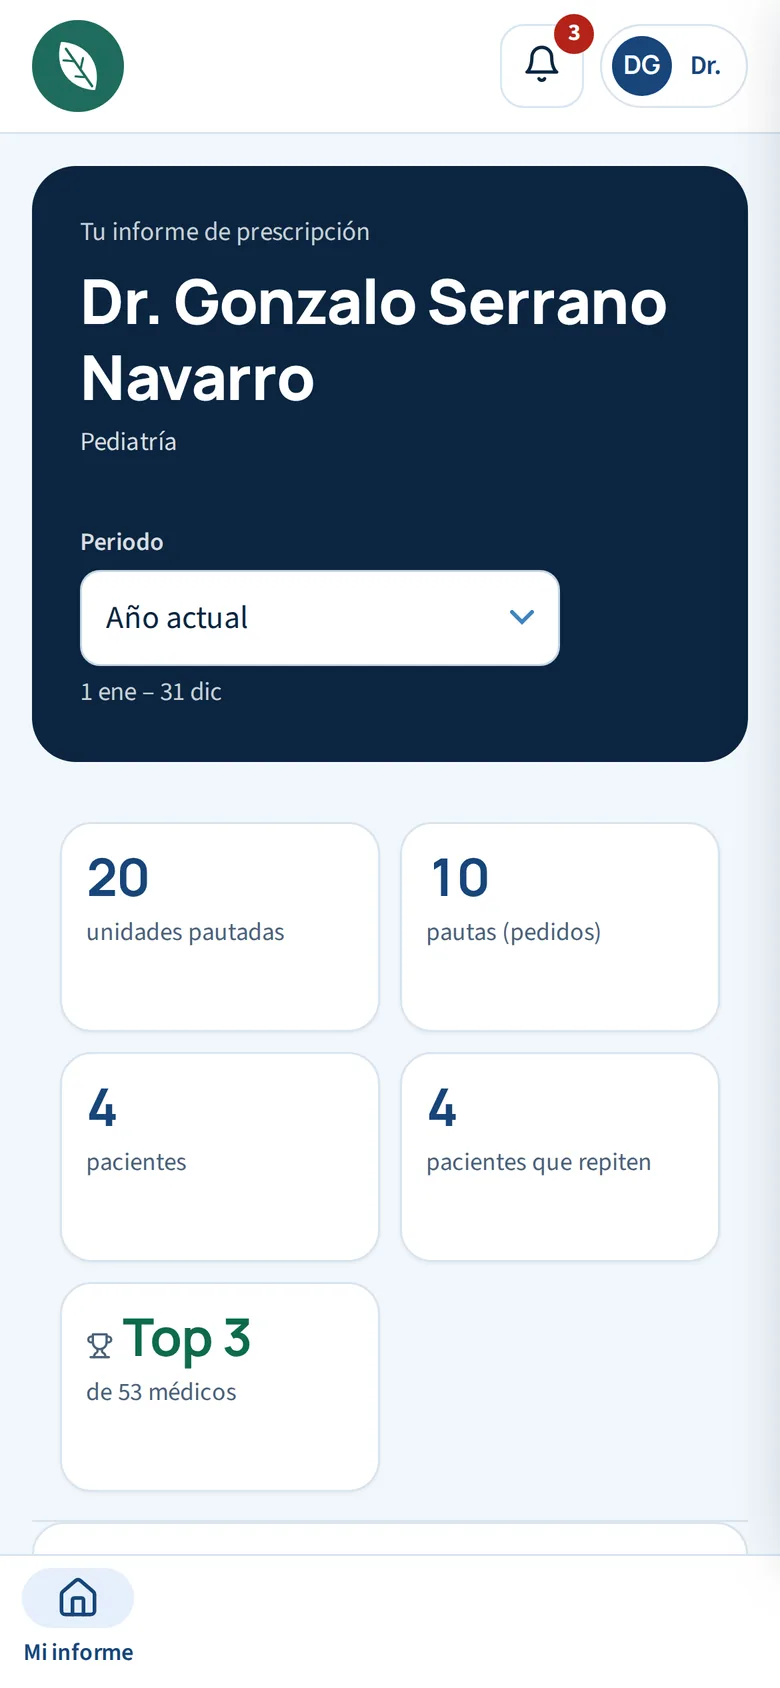
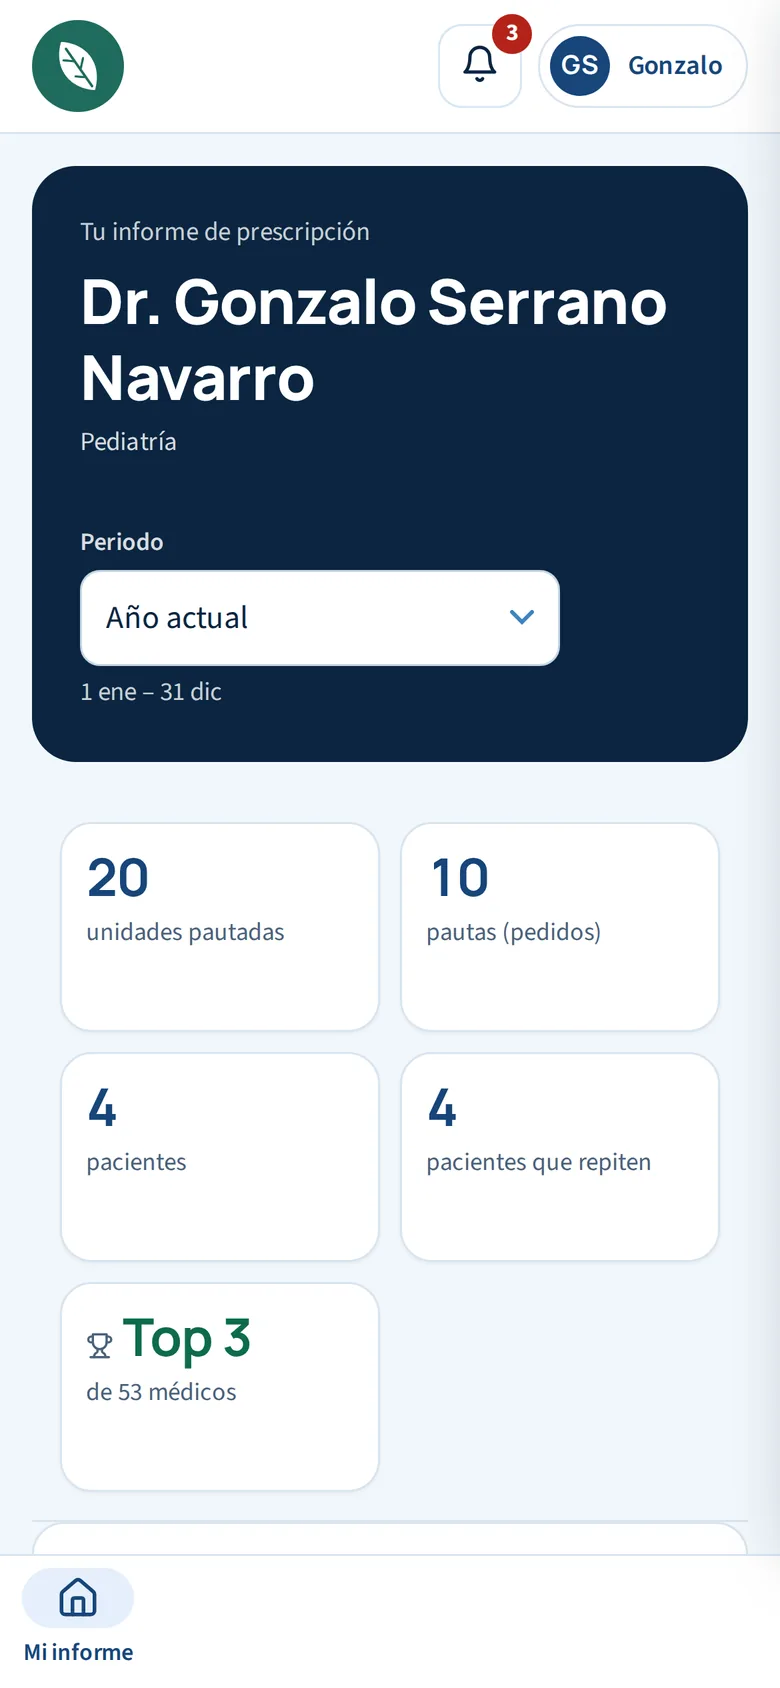
Pedidos por la web y capturas con la app v2.116
Dos piezas nuevas en Módulos con capturas reales de Company Pharma: pedidos por la web (filtro de origen y su resumen) y el pago de un pedido con su referencia y justificante; también en el menú Plataforma, en español e inglés. Las capturas del portal del profesional se rehacen con la app v2.116.0 (nombre sin tratamiento y botonera de borde a borde).

Changed region(s): [[0.5846, 0.0, 0.9231, 0.0616]]

diff --git a/en/index.html b/en/index.html
@@ -997,6 +997,8 @@ const MODULOS = [
   { g: 'g8', ojo: 'Orders', t: 'From visit to order', d: 'Patient recommendation or sale to a centre, with discounts, shipping and the operations of every order.', img: 'labs_e_ventas' },
   { g: 'g6', ojo: 'Warehouse', t: 'Stock by batch and expiry', d: 'Goods in, goods out, samples and transfers by warehouse.', img: 'labs_e_stock' },
   { g: 'g6', ojo: 'Purchasing', t: 'Suppliers and purchase orders', d: 'What has been sent, what is in transit and what has arrived.', img: 'labs_e_compras' },
+  { g: 'g6', ojo: 'Web orders', t: 'What comes in through your website, in sight', d: 'Orders placed through your website, with their own filter and sales summary.', img: 'pharma_e_pedidos_web' },
+  { g: 'g6', ojo: 'Payments', t: 'Every payment, with its reference', d: 'The bank transfer or Bizum reference and the proof of payment, right on the order.', img: 'pharma_e_pedido_web' },
   { g: '', ojo: 'Invoicing', t: 'VeriFactu, built in', d: 'Series, credit notes, payments and the record of every invoice.', img: 'labs_e_facturas' },
   { g: '', ojo: 'Commissions', t: 'Every sale, credited to whoever made it', d: 'Tiered schemes and monthly settlements.', img: 'labs_e_comisiones' },
   { g: '', ojo: 'Analytics', t: 'Explore your data', d: 'Cross sales, visits and coverage by any dimension.', img: 'labs_e_explorar' },
@@ -1219,11 +1221,12 @@ addEventListener('scroll', alDesplazar, { passive: true }); alDesplazar();
 /* ================= menú desplegable de la cabecera ================= */
 const MENU_PLAT = [
   ['Field', [['Accounts', 'Professionals, centres and their history', 'labs_e_directorio', 0], ['Calendar and routes', 'Each rep’s week', 'labs_e_agenda', 2],
-    ['Follow-up', 'What needs doing on each record', 'labs_e_seguimiento', 1], ['Data quality', 'No duplicate or incomplete records', 'labs_e_calidad', 9]]],
+    ['Follow-up', 'What needs doing on each record', 'labs_e_seguimiento', 1], ['Data quality', 'No duplicate or incomplete records', 'labs_e_calidad', 11]]],
   ['Sales', [['Orders', 'From visit to order', 'labs_e_ventas', 3], ['Telesales', 'Calls that end in orders', 'labs_e_llamadas', 3],
-    ['Commissions', 'Every sale, credited to whoever made it', 'labs_e_comisiones', 7], ['Analytics', 'Cross sales, visits and coverage', 'labs_e_explorar', 8]]],
+    ['Commissions', 'Every sale, credited to whoever made it', 'labs_e_comisiones', 9], ['Analytics', 'Cross sales, visits and coverage', 'labs_e_explorar', 10],
+    ['Web orders', 'With their filter, summary and payment reference', 'pharma_e_pedidos_web', 6]]],
   ['Office', [['Warehouse and batches', 'Stock by batch and expiry', 'labs_e_stock', 4], ['Purchasing', 'Suppliers and purchase orders', 'labs_e_compras', 5],
-    ['Invoicing', 'VeriFactu, credit notes and payments', 'labs_e_facturas', 6], ['Team and permissions', 'Each role sees and does its own part', 'labs_e_usuarios', 10]]]
+    ['Invoicing', 'VeriFactu, credit notes and payments', 'labs_e_facturas', 8], ['Team and permissions', 'Each role sees and does its own part', 'labs_e_usuarios', 12]]]
 ];
 const previa = (img, pie) => `<div class="previa"><div class="ordenador"><div class="barra"><i></i><i></i><i></i></div><div class="vista"><img src="${cap(img)}" alt="" width="1600" height="1000"><img class="fuera" alt="" width="1600" height="1000"></div></div><p>${pie}</p></div>`;
 let ni = 0;

diff --git a/index.html b/index.html
@@ -997,6 +997,8 @@ const MODULOS = [
   { g: 'g8', ojo: 'Pedidos', t: 'De la visita al pedido', d: 'Recomendación al paciente o venta a centro, con descuentos, envío y la operativa de cada pedido.', img: 'labs_e_ventas' },
   { g: 'g6', ojo: 'Almacén', t: 'Stock por lotes y caducidad', d: 'Entradas, salidas, muestras y traspasos por almacén.', img: 'labs_e_stock' },
   { g: 'g6', ojo: 'Compras', t: 'Proveedores y pedidos de compra', d: 'Lo enviado, lo que está en tránsito y lo recibido.', img: 'labs_e_compras' },
+  { g: 'g6', ojo: 'Pedidos web', t: 'Lo que entra por tu web, a la vista', d: 'Los pedidos que llegan por la web, con su filtro y su propio resumen de ventas.', img: 'pharma_e_pedidos_web' },
+  { g: 'g6', ojo: 'Pagos', t: 'Cada pago, con su referencia', d: 'La referencia de la transferencia o el bizum y el justificante, en el mismo pedido.', img: 'pharma_e_pedido_web' },
   { g: '', ojo: 'Facturación', t: 'VeriFactu, de serie', d: 'Series, rectificativas, cobros y el registro de cada factura.', img: 'labs_e_facturas' },
   { g: '', ojo: 'Comisiones', t: 'Cada venta, a quien la genera', d: 'Esquemas por tramos y liquidaciones de cada mes.', img: 'labs_e_comisiones' },
   { g: '', ojo: 'Analítica', t: 'Explora tus datos', d: 'Cruza ventas, visitas y cobertura por cualquier dimensión.', img: 'labs_e_explorar' },
@@ -1219,11 +1221,12 @@ addEventListener('scroll', alDesplazar, { passive: true }); alDesplazar();
 /* ================= menú desplegable de la cabecera ================= */
 const MENU_PLAT = [
   ['Campo', [['Cartera', 'Profesionales, centros y su historial', 'labs_e_directorio', 0], ['Agenda y rutas', 'La semana de cada comercial', 'labs_e_agenda', 2],
-    ['Seguimiento', 'Lo que toca hacer en cada ficha', 'labs_e_seguimiento', 1], ['Calidad del dato', 'Sin fichas repetidas ni incompletas', 'labs_e_calidad', 9]]],
+    ['Seguimiento', 'Lo que toca hacer en cada ficha', 'labs_e_seguimiento', 1], ['Calidad del dato', 'Sin fichas repetidas ni incompletas', 'labs_e_calidad', 11]]],
   ['Venta', [['Pedidos', 'De la visita al pedido', 'labs_e_ventas', 3], ['Televenta', 'Llamadas que acaban en pedido', 'labs_e_llamadas', 3],
-    ['Comisiones', 'Cada venta, a quien la genera', 'labs_e_comisiones', 7], ['Analítica', 'Cruza ventas, visitas y cobertura', 'labs_e_explorar', 8]]],
+    ['Comisiones', 'Cada venta, a quien la genera', 'labs_e_comisiones', 9], ['Analítica', 'Cruza ventas, visitas y cobertura', 'labs_e_explorar', 10],
+    ['Pedidos por la web', 'Con su filtro, su resumen y la referencia del pago', 'pharma_e_pedidos_web', 6]]],
   ['Oficina', [['Almacén y lotes', 'Stock por lote y caducidad', 'labs_e_stock', 4], ['Compras', 'Proveedores y pedidos de compra', 'labs_e_compras', 5],
-    ['Facturación', 'VeriFactu, rectificativas y cobros', 'labs_e_facturas', 6], ['Equipo y permisos', 'Cada rol ve y hace lo suyo', 'labs_e_usuarios', 10]]]
+    ['Facturación', 'VeriFactu, rectificativas y cobros', 'labs_e_facturas', 8], ['Equipo y permisos', 'Cada rol ve y hace lo suyo', 'labs_e_usuarios', 12]]]
 ];
 const previa = (img, pie) => `<div class="previa"><div class="ordenador"><div class="barra"><i></i><i></i><i></i></div><div class="vista"><img src="${cap(img)}" alt="" width="1600" height="1000"><img class="fuera" alt="" width="1600" height="1000"></div></div><p>${pie}</p></div>`;
 let ni = 0;
